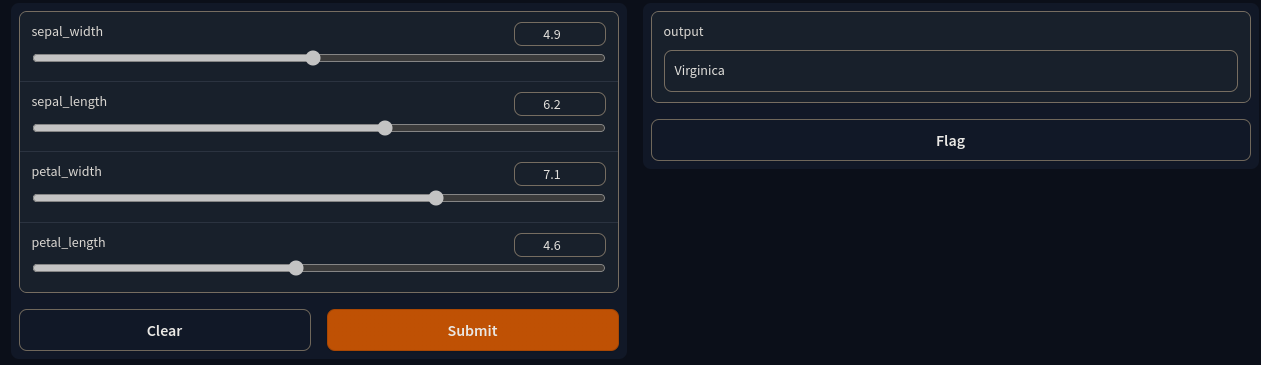
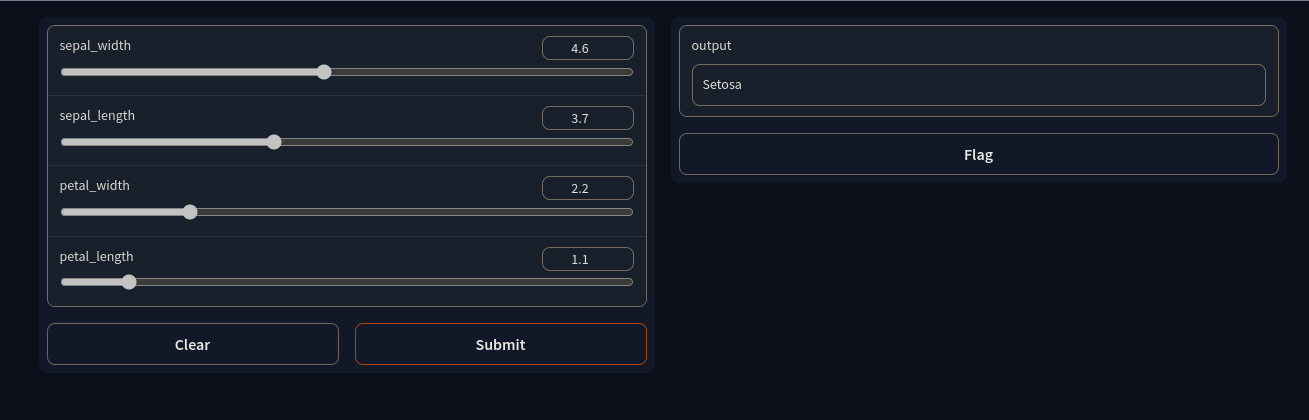
Added image

diff --git a/README.md b/README.md
@@ -13,7 +13,9 @@ python ore_ui.py
 ```
 
 In a new tab, you should be able to see a gradio interface where you can predict a iris class using feature sliders. 
+Should look like this:
 
+![Image](ore_ui.png)
 
 
 ### ONNX Runtime & C++ Example
